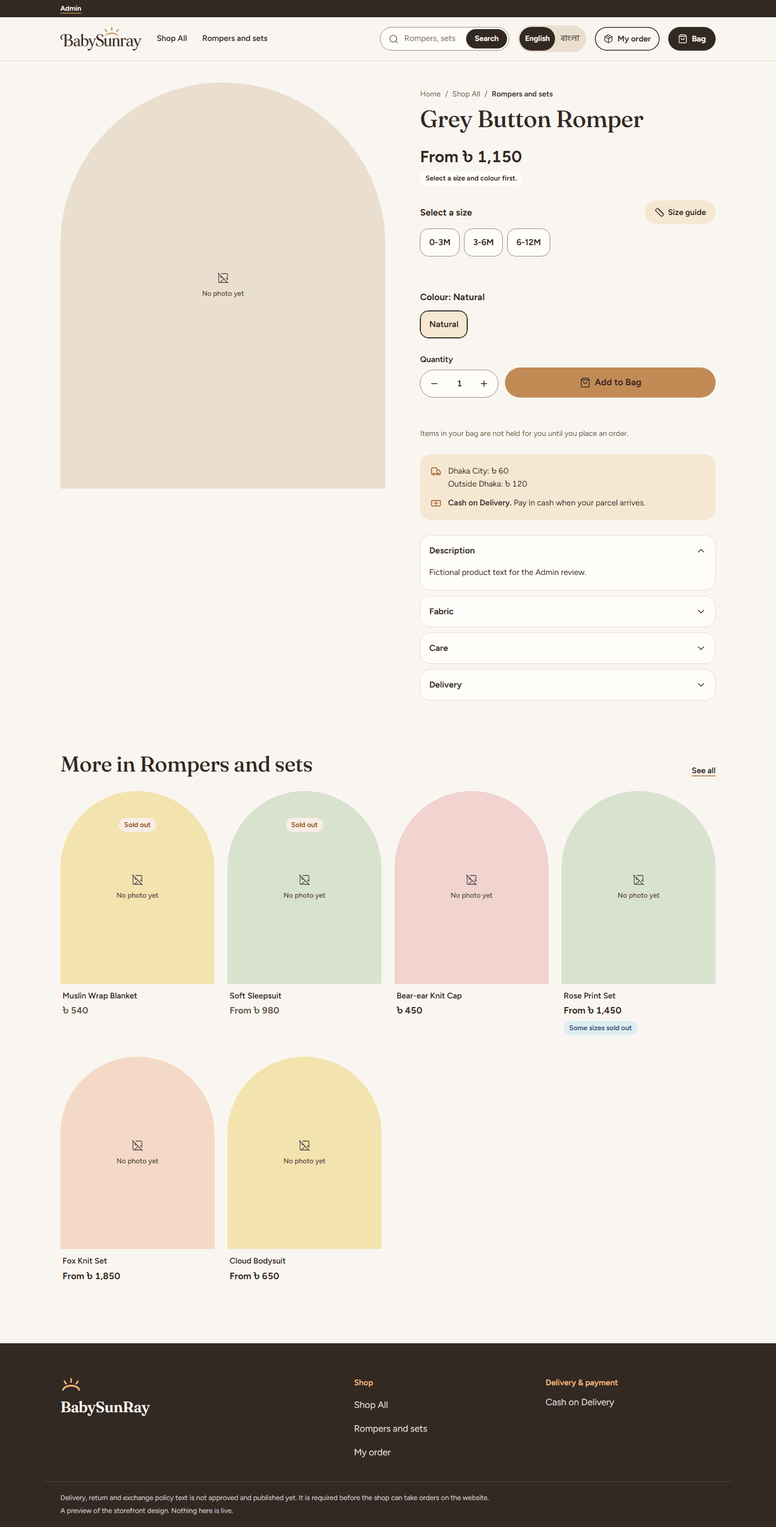
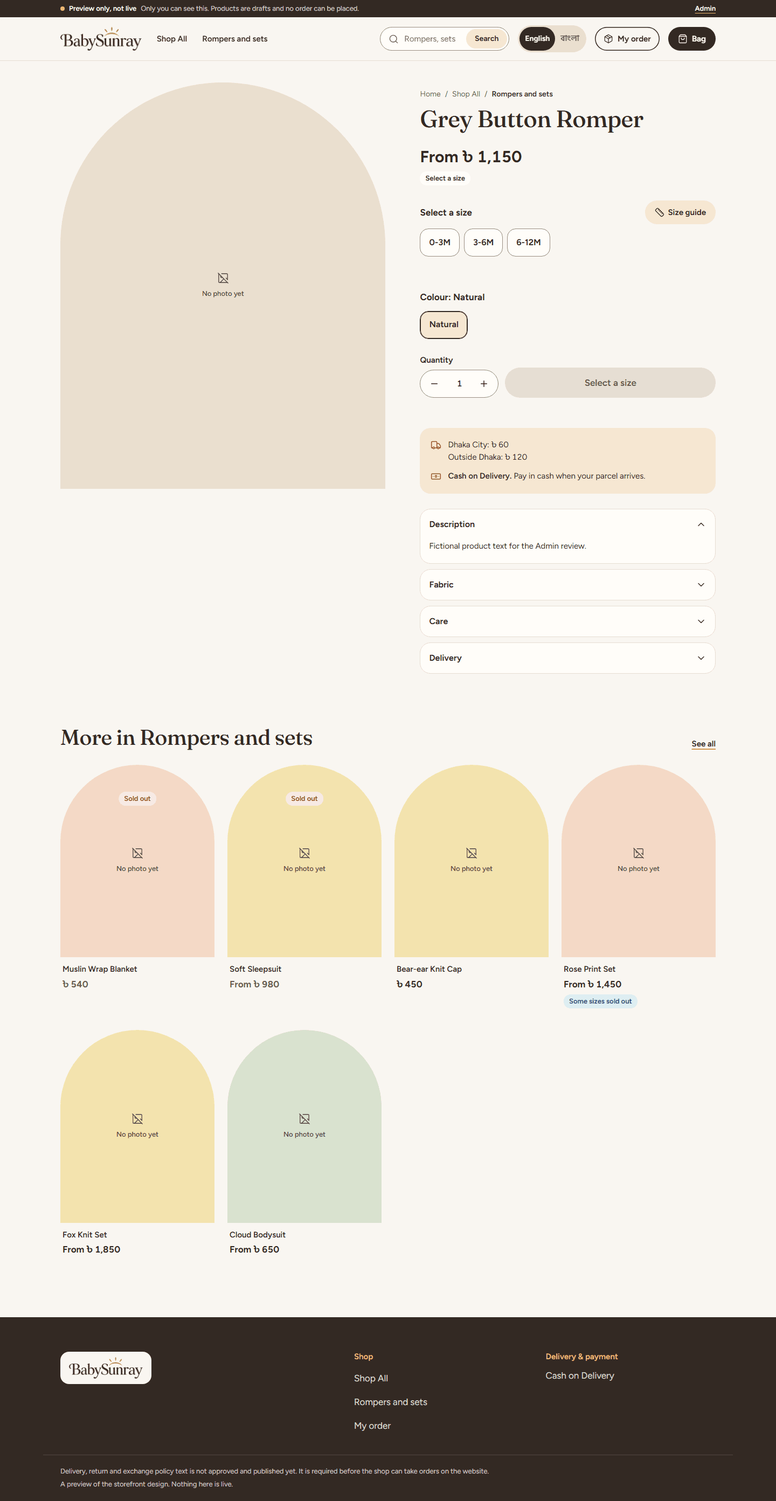
docs: README pictures and guides for the corrected screens; honest screenshot harness
- README, user guide, Admin reference and design system describe the corrected storefront and Admin
  (buying states, delivery area carry-over, sorting, size guide units, orders Status column, phone
  cards, dashboard, checklist) and spell the business BabySunray, as the wordmark does.
- The five README pictures are fresh screenshots of the corrected app on fictional data (no photos:
  none are licensed); the shop pictures keep the preview's "not live" line instead of hiding half of
  it, the Admin seed uses the wordmark's spelling, and drawers and the scrolled sidebar are captured
  as seen on screen rather than as stitched full pages.

diff --git a/tests/e2e/admin-ux-shots.spec.ts b/tests/e2e/admin-ux-shots.spec.ts
@@ -117,7 +117,8 @@ test("Admin operational UX review screenshots (opt-in: ADMIN_SHOTS_DIR)", async 
   let romperSlug = "";
   let romperId = "";
   try {
-    await named.query("insert into store_settings (id, store_name) values (1, 'BabySunRay') on conflict (id) do update set store_name = excluded.store_name");
+    // The approved wordmark's spelling, so the name and the logo agree in every screenshot.
+    await named.query("insert into store_settings (id, store_name) values (1, 'BabySunray') on conflict (id) do update set store_name = excluded.store_name");
     ({ slug: romperSlug, id: romperId } = (await named.query<{ slug: string; id: string }>("select slug, id from products where name_en = 'Grey Button Romper' order by created_at desc limit 1")).rows[0]);
   } finally {
     await named.end();
@@ -147,13 +148,15 @@ test("Admin operational UX review screenshots (opt-in: ADMIN_SHOTS_DIR)", async 
     await db.end();
   }
 
-  const capture = async (p: Page, file: string, caption: string, group: string) => {
+  // fullPage = false for anything fixed or sticky (a drawer, the sidebar after scrolling): a stitched full-page picture
+  // shows those cut off where a person on the screen never sees them so.
+  const capture = async (p: Page, file: string, caption: string, group: string, fullPage = true) => {
     await p.waitForLoadState("networkidle");
     await p.evaluate(async () => {
       await Promise.race([Promise.all([...document.images].map((img) => (img.complete ? null : new Promise((r) => { img.onload = img.onerror = () => r(null); })))), new Promise((r) => setTimeout(r, 4000))]);
       await document.fonts.ready;
     });
-    await p.screenshot({ path: path.join(OUT!, file), fullPage: true });
+    await p.screenshot({ path: path.join(OUT!, file), fullPage });
     shots.push({ file, caption, group });
   };
   const search = async (p: Page, term: string) => {
@@ -172,7 +175,7 @@ test("Admin operational UX review screenshots (opt-in: ADMIN_SHOTS_DIR)", async 
   await search(page, "Nobody Fictional");
   await capture(page, "desktop-04-orders-no-match.png", "Orders: empty state for a search with no match", "Orders · desktop");
   await search(page, "0171");
-  await capture(page, "desktop-05-orders-search-error.png", "Orders: an unusable search term explains what works", "Orders · desktop");
+  await capture(page, "desktop-05-orders-search-error.png", "Orders: part of a phone number while typing gets a calm hint, not an error", "Orders · desktop");
   await page.goto("/admin/orders?queue=to_pack");
   await capture(page, "desktop-06-orders-to-pack.png", "Orders: the To pack queue with its quick action", "Orders · desktop");
   await page.goto("/admin/orders?attention=true");
@@ -199,16 +202,17 @@ test("Admin operational UX review screenshots (opt-in: ADMIN_SHOTS_DIR)", async 
   await page.locator("[data-quickview]").nth(3).click();
   await page.getByRole("region", { name: "Items" }).waitFor();
   await page.waitForTimeout(400);
-  await capture(page, "desktop-09-quick-view.png", "Orders: quick view drawer", "Orders · desktop");
+  await capture(page, "desktop-09-quick-view.png", "Orders: quick view drawer (the screen as seen)", "Orders · desktop", false);
   await page.keyboard.press("Escape");
   await page.goto("/admin/catalogue-preparation");
-  await capture(page, "desktop-40-preparation.png", "Catalogue preparation: business language, no requirement codes", "Catalogue preparation · desktop");
+  await capture(page, "desktop-40-preparation.png", "Catalogue checklist: what drafts still need, done items marked", "Catalogue preparation · desktop");
   await page.goto("/admin/products/new");
   await page.getByLabel("Name (English)").fill("Cotton Sleep Bag");
   await page.waitForTimeout(1200);
   await capture(page, "desktop-41-new-product.png", "New product: name first, language tabs, web address made from the name", "Products · desktop");
   // The shop as customers see it (the Owner's preview, its "preview" bar hidden for the picture).
-  const hideBar = () => page.addStyleTag({ content: "*:has(> [data-testid=preview-banner]) { display: none !important } nextjs-portal { display: none !important }" });
+  // Only the development overlay is hidden; the preview's "not live" line stays (the picture must not look like a public shop).
+  const hideBar = () => page.addStyleTag({ content: "nextjs-portal { display: none !important }" });
   await page.goto("/admin/storefront-preview/en");
   await hideBar();
   await capture(page, "storefront.png", "Storefront home", "Storefront");
@@ -227,7 +231,7 @@ test("Admin operational UX review screenshots (opt-in: ADMIN_SHOTS_DIR)", async 
   const edit = page.getByRole("button", { name: "Edit details" });
   if (await edit.count()) {
     await edit.click();
-    await page.getByLabel("Store name").fill("BabySunRay Kids");
+    await page.getByLabel("Store name").fill("BabySunray Kids");
     await capture(page, "desktop-51-store-settings-edit.png", "Store settings: editing, with Save changes and Cancel", "Settings · desktop");
   }
   const replace = page.getByRole("button", { name: "Replace logo" });
@@ -239,12 +243,15 @@ test("Admin operational UX review screenshots (opt-in: ADMIN_SHOTS_DIR)", async 
   }
   await desktop.close();
 
-  // A smaller laptop: the order table scrolls sideways and keeps the row's action in view.
+  // A smaller laptop: every order column in view without sideways scrolling; the sidebar stays put while a long page scrolls.
   const laptop = await browser.newContext({ viewport: { width: 1280, height: 800 }, locale: "en-GB" });
   const small = await laptop.newPage();
   await signIn(small);
   await small.goto("/admin/orders");
-  await capture(small, "desktop-08-orders-1280.png", "Orders at 1280 px: the action column stays in view", "Orders · desktop");
+  await capture(small, "desktop-08-orders-1280.png", "Orders at 1280 px: every column in view, no sideways scrolling", "Orders · desktop");
+  await small.goto("/admin/settings/store");
+  await small.evaluate(() => window.scrollTo(0, document.body.scrollHeight));
+  await capture(small, "desktop-53-sidebar-scrolled-1280.png", "1280 × 800, scrolled to the end of a long page with Settings open: the sidebar stays in view", "Settings · desktop", false);
   await small.goto("/admin/dashboard");
   await small.getByTestId("generated-at").waitFor();
   await small.screenshot({ path: path.join(OUT!, "desktop-21-dashboard-1280-fold.png") });
@@ -267,7 +274,7 @@ test("Admin operational UX review screenshots (opt-in: ADMIN_SHOTS_DIR)", async 
   await mobile.locator("ul[aria-label=Orders] [data-quickview]").nth(3).tap();
   await mobile.getByRole("region", { name: "Items" }).waitFor();
   await mobile.waitForTimeout(400);
-  await capture(mobile, "phone-03-quick-view.png", "Quick view on a phone", "Phone");
+  await capture(mobile, "phone-03-quick-view.png", "Quick view on a phone (the screen as seen)", "Phone", false);
   await mobile.keyboard.press("Escape");
   await mobile.goto("/admin/reports?tab=cod");
   await capture(mobile, "phone-31-reports-cod.png", "Reports COD tab on a phone", "Phone");
@@ -293,7 +300,7 @@ test("Admin operational UX review screenshots (opt-in: ADMIN_SHOTS_DIR)", async 
 <style>body{margin:0;font-family:system-ui,sans-serif;background:#f6f1ea;color:#2b211c}header{padding:24px 16px 8px;max-width:1500px;margin:auto}h1{margin:0 0 4px;font-size:24px}p{margin:0;color:#6b5d52}
 section{max-width:1500px;margin:auto;padding:8px 16px 24px}h2{font-size:18px;margin:16px 0 12px}.grid{display:grid;gap:20px;grid-template-columns:repeat(auto-fill,minmax(420px,1fr))}
 figure{margin:0;background:#fff;border:1px solid #e3d9cc;border-radius:14px;overflow:hidden}figure a{display:block;max-height:520px;overflow:hidden;border-bottom:1px solid #eee}img{width:100%;display:block}figcaption{padding:10px 12px;font-size:14px}code{font-size:12px;color:#8a7b6e}</style></head>
-<body><header><h1>BabySunRay Admin · Phase 1 operational UX</h1><p>Real application, production-like data shapes, fictional customers and products only (babysunray_test). Select a screenshot to open it full size.</p></header>
+<body><header><h1>BabySunray Admin · operational UX</h1><p>Real application, production-like data shapes, fictional customers and products only (babysunray_test). Select a screenshot to open it full size.</p></header>
 ${groups
   .map(
     (g) =>

diff --git a/docs/user-guide.md b/docs/user-guide.md
@@ -1,4 +1,4 @@
-# BabySunRay Admin — User Guide
+# BabySunray Admin — User Guide
 
 This guide shows you how to run the shop day to day: adding products, taking orders, sending parcels, keeping track of cash on delivery, and reading your reports.
 
@@ -83,9 +83,11 @@ The dashboard shows what needs you, most urgent first:
 └──────────────────────────────────────────────┘
 ```
 
-Under **Needs attention**, each line tells you what happened, why it matters, the oldest orders, and has a button to the right list (for example **Verify orders**). If nothing is listed, nothing needs you right now. A delivery zone without a charge, and returned items waiting for inspection, also appear here.
+Under **Needs attention**, each line tells you what happened, why it matters, the oldest orders, and has a button to the right list (for example **Verify orders**). Urgent lines (late orders, cancellation requests, a zone without a charge) have a dark button; the others an outlined one. If nothing is listed, nothing needs you right now. A delivery zone without a charge, and returned items waiting for inspection, also appear here. The time the figures were read and **Refresh** sit beside the *Needs attention* heading.
 
-**Orders in progress** shows how many orders are in each step of the day's work. Press **Show all** to open that list. These are order counts, not sales: money counts only once you record that it was collected and settled.
+**Orders in progress** shows how many orders are in each step of the day's work. Press anywhere on a card to open that list. These are order counts, not sales: money counts only once you record that it was collected and settled.
+
+Under **Stock availability**, **At most 3 / 5 / 10 available** show the items running low in one press; any other number can be typed in the box. This is only a view: the system sets no low-stock level.
 
 A simple daily rhythm:
 
@@ -119,13 +121,15 @@ Use the **Search orders** box. You can type:
 - the customer's full mobile number — `01712 345678`, `+8801712345678` (Bangla digits work too)
 - part of the customer's name
 
-The list updates as you type. The chips under the search box (**To verify**, **To pack**, **To dispatch** …) show one group at a time, with a count on each.
+The list updates as you type. While a phone number is only partly typed, a grey note says to keep typing: a phone number is found once all 11 digits are in. The chips under the search box (**To verify**, **To pack**, **To dispatch** …) show one group at a time, with a count on each.
+
+On a computer each row shows the order number (with how it came in and when), the customer, the total, a **Status** column and the next step. The Status column lists the order's separate states one under the other — the order, its packing and delivery, the payment (for example **COD to collect**) and any return — so you see them all without scrolling sideways.
 
 > Customer names and phone numbers are never shown in the page address, so they don't end up in your browser history.
 
 ### Quick look without opening
 
-Press the **eye icon** next to an order number. A panel opens on the right with the customer, the items, the amounts and the recent history. Press **Close** or **Esc** to go back to the list. To see everything, press **Open full order**.
+Press the **eye icon** next to an order number. A panel opens on the right with the customer, the items, the amounts and the recent history. **Call** opens your phone's dialler with the customer's number and **Copy** copies it (for WhatsApp). The courier's amounts appear once money has moved; before that the panel says *Nothing yet*. Press **Close** or **Esc** to go back to the list. To see everything, press **Open full order**.
 
 ![Order quick view](images/order-quick-view.png)
 
@@ -151,8 +155,8 @@ Open an order by its number. On a computer the page has two columns: the work on
 |---|---|
 | **Status** | A progress strip (Verified, Packed, Dispatched, Delivered or Returned to sender, Closed) with the next step marked, then the four separate statuses: order, fulfilment (packing and delivery), payment and return. They are never merged into one. Cancelled and expired orders show no strip. |
 | **Next step** | The steps possible now, as buttons. **Cancel order** and **Mark returned to sender** sit apart, under *If the order cannot go ahead*. |
-| **Customer and delivery** | Name, phone, address and delivery zone. **Copy** puts the phone or address on your clipboard (for the courier's form). The print button makes the packing and shipping document. |
-| **Items** | What was ordered, at the price it was ordered at, and the expected COD. |
+| **Customer and delivery** | Name, phone, address and delivery zone. **Call** opens your phone's dialler; **Copy** puts the phone or address on your clipboard (for the courier's form or WhatsApp). The print button makes the packing and shipping document. |
+| **Items** | What was ordered, at the price it was ordered at, and the expected COD. On a phone each item is a small card with the same figures. |
 | **Cash on delivery** | The money for this order (see section 7). **Record a payment** opens the form; it opens by itself when a delivered order has nothing collected yet. |
 | **Returns and exchanges** | Open requests and their next step. **Record a return or exchange** opens the form while the return window is open. |
 | **History** | Everything that happened, oldest first; the latest step is marked. |
@@ -173,7 +177,7 @@ On a computer, tick the boxes on the left of several orders. A bar appears at th
 - **Mark N packed** — for orders waiting to be packed
 - **Dispatch N orders** — for packed orders
 
-Each order is handled separately. If one can't be done (for example someone changed it in another window), you'll see exactly which one and why — the others still go through.
+Each order is handled separately. If one can't be done (for example someone changed it in another window), you'll see exactly which one and why — the others still go through. The result stays on screen even when the list is now empty (for example after packing everything in *To pack*).
 
 > Delivery is always recorded **one order at a time**, because it's your own record, not proof from the courier.
 
@@ -204,15 +208,15 @@ A new product is a **draft** — customers can't see it yet.
 
 ### Finishing the product
 
-The product's page starts with an **overview**: the first photo, whether customers can see the product, how many variants it has, the units on hand and available, and **the one thing to do next**, with a button that goes straight there (for example *Next: add a product photo* with **Add photos**, or *Next: add the size chart measurements* with **Add measurements**). **See all** lists everything still needed. The row of buttons under it jumps to each part of the page.
+The product's page starts with an **overview**: the first photo, whether customers can see the product, how many variants it has, the units on hand and available, and **the one thing to do next**, with a button that goes straight there (for example *Next: add a product photo* with **Add photos**, or *Next: add the size chart measurements* with **Add measurements**). **See all** lists everything still needed. The row of buttons under it jumps to each part of the page, in the order they appear:
 
 | Part | What to do |
 |---|---|
-| **Variants and stock** | Each size/colour is a *variant* with its own code (SKU) and price. On a phone each variant is a card with its available, reserved and on-hand units and a **Stock** button. **Add a variant** opens the form (it is already open for a product with no variants). Click a SKU to receive or adjust its stock. |
-| **Publishing** | Three steps: complete the information, mark it reviewed, publish. A finished step shows a tick. |
-| **Details** | Description, fabric, care instructions, size guidance, category — change them with **Edit details** at the top. If you type something and try to leave without saving, you are asked first. |
+| **Photos** | Upload photos and describe each one in English and Bangla. They come first: they are what customers look at first. |
 | **Size chart** | Measurements in centimetres for each size |
-| **Photos** | Upload photos and describe each one in English and Bangla |
+| **Variants and stock** | Each size/colour is a *variant* with its own code (SKU) and price. On a phone each variant is a card with its available, reserved and on-hand units and a **Stock** button. **Add a variant** opens the form (it is already open for a product with no variants). Click a SKU to receive or adjust its stock. |
+| **Publishing** | Three steps: complete the information, mark it reviewed, publish. A finished step shows a tick. In the checklist, what is still missing is listed; what is done folds into one **N done** line you can open. |
+| **Details** | Description, fabric, care instructions, size guidance, category — change them with **Edit details** at the top. If you type something and try to leave without saving, you are asked first. |
 
 **Archive this product** is at the bottom, behind its own button, because it cannot be undone here.
 
@@ -220,7 +224,7 @@ The product's page starts with an **overview**: the first photo, whether custome
 
 ### Is it ready?
 
-The **Catalogue checklist** page shows, for all drafts, what's still missing (names, photos, measurements…). Click a number to see those products.
+The **Catalogue checklist** page shows, for all drafts, what's still missing (names, photos, measurements…). Press **N drafts** on a line to see those products; a line every draft already has shows **All set**. Archived products are left out of these lists (choose the *Archived* status on the product list to see them).
 
 On the product list, each draft shows either **Information complete** or **N missing**.
 
@@ -344,6 +348,8 @@ If the reconciliation check ever turns red, the payment records don't match — 
 
 On the **Orders & performance** tab, the bar shows orders by status; **Show the detail tables** opens the counts by source and by each status.
 
+On a phone the tabs are called **Orders**, **COD** and **Inventory**, and each order with COD still open is a small card with all six amounts (total, to collect, collected, held by the courier, settled, kept by the courier).
+
 ---
 
 ## 10. Shop settings
@@ -393,7 +399,9 @@ Customers never need an email account to order.
 ## 11. What your customers see
 
 - They browse the shop in **English or Bangla**.
-- They choose size and colour, add to bag, and order with **Cash on Delivery**. No account is needed, but they can make one (with email or Google) if they like.
+- They can sort the list (newest, or price low to high / high to low) and filter it under **Filter & sort**.
+- They choose size and colour, add to bag, and order with **Cash on Delivery**. Until a size or colour is chosen the button says which one is missing; a sold-out choice says **Sold out**. The size guide marks the chosen size and can show inches (worked out from your centimetres). No account is needed, but they can make one (with email or Google) if they like.
+- The delivery area they pick in the bag is already chosen at checkout, so the total they saw is the total they get (it is priced again by the server).
 - They get a **tracking link** to follow their order and, while it's still waiting for your call, to cancel it.
 
 > Until you officially launch, the shop is closed to the public. You can see it safely through **Storefront preview** or **Shop acceptance**.

diff --git a/docs/guides/admin-panel.md b/docs/guides/admin-panel.md
@@ -3,7 +3,7 @@
 **Status:** Draft — Founder Review
 **Purpose:** The screens of the private admin panel, their permissions, and how every page and form is protected.
 
-A functional internal area at `/admin` (`src/app/admin`), built with the Next.js App Router and Tailwind CSS. In the code it is called BabySunRay Admin and its single role is `owner`. It wears the First Light design ([design system](../design/storefront-design-system.md)): a cocoa sidebar grouped by the work it serves, daily pages first, with the occasional Shop and Settings groups folded unless the current page is in them (on a phone, a bottom bar with Dashboard, Orders, Products and a Menu of every page), status words in toned pills, the main action of a page or form in amber. When the connected database carries the founder's staging marker (`src/app/admin/_lib/staging.ts`: the same `isStagingDatabase` check acceptance uses, read from the database itself; no environment variable or setting can turn it on, and an unreadable database shows no notice), every page shows a "Test database (staging)" notice so test orders and figures cannot be taken for real sales.
+A functional internal area at `/admin` (`src/app/admin`), built with the Next.js App Router and Tailwind CSS. In the code it is called BabySunray Admin and its single role is `owner`. It wears the First Light design ([design system](../design/storefront-design-system.md)): a cocoa sidebar grouped by the work it serves, daily pages first, with the occasional Shop and Settings groups folded unless the current page is in them (on a phone, a bottom bar with Dashboard, Orders, Products and a Menu of every page), status words in toned pills, the main action of a page or form in amber. When the connected database carries the founder's staging marker (`src/app/admin/_lib/staging.ts`: the same `isStagingDatabase` check acceptance uses, read from the database itself; no environment variable or setting can turn it on, and an unreadable database shows no notice), every page shows a "Test database (staging)" notice so test orders and figures cannot be taken for real sales.
 
 | Screen | Does | Permission |
 |---|---|---|
@@ -21,13 +21,13 @@ A functional internal area at `/admin` (`src/app/admin`), built with the Next.js
 | `/admin/variants/{id}/edit` | Edit an active variant's size, colour and price in Taka; shows its stock, which the edit never changes | `catalog:read`, `catalog:write`, `stock:read` |
 | `/admin/categories` | Create categories (slug, English and Bangla names) and rename them | `catalog:read`, `catalog:write` |
 | `/admin/import` | Bulk import of new draft products: templates, check (preview, nothing saved), problem list, import, recent imports | `catalog:read`, `catalog:write` |
-| `/admin/catalogue-preparation` | How many drafts still need each checklist item, grouped as on the product page (needed to publish under the rule that applies, else product information and proposed requirements; then optional improvements); each count links to the matching list | `catalog:read` |
+| `/admin/catalogue-preparation` | How many drafts still need each checklist item, grouped as on the product page (needed to publish under the rule that applies, else product information and proposed requirements; then optional improvements); each count links to the matching list, and a line every draft meets shows All set; the product list's still-missing filter leaves archived products out unless the Archived status is chosen | `catalog:read` |
 | `/admin/product-reviews` | Review queue: every draft with what it still lacks, its review state (not reviewed, current, outdated) and its customer preview; search | `catalog:read` |
 | `/admin/skus/{sku}` | Current stock, receive stock, adjust with a reason; movement history with who made each change (times in Asia/Dhaka) | `stock:read`; changes `stock:receive` / `stock:adjust` |
 | `/admin/stock-counts`, `/admin/stock-counts/{id}` | Physical stock counts: start, resume, review, apply or discard; history | `stock:read`, `stock:adjust` |
-| `/admin/orders`, `/admin/orders/new`, `/admin/orders/{id}` | Orders newest first as a table (cards on a phone) with queue chips, a status filter and one search box for an order number, a full mobile number (any common form, matched on the normalized number) or part of the customer's name; filters apply as they change and text search applies when typing pauses; a name or phone search is forgotten on sign-out and is kept in a sealed (AES-GCM, bound to the signed-in user), HttpOnly, SameSite=Strict cookie for `/admin/orders` only, valid 15 minutes and removed by Clear search, never in the URL; chips show how many orders each queue holds (one aggregate query); the next step (confirm, pack, dispatch, mark delivered) can be taken from the row; an order past its 24-hour deadline can still be confirmed (with an overdue warning; stock is checked again and the confirmation is refused if there is not enough); an eye button opens a quick-view drawer (customer, items, amounts, recent history) without leaving the list; on a desktop screen several rows can be selected to pack or dispatch together (recording a delivery is one order at a time: it is your own record, not courier evidence) (each order changes on its own with the version shown, one result per order, confirmation first, no bulk undo); neutral statuses are plain text, COD still to collect or settle stands out; an assisted order (up to 5 SKU lines, stock reserved at once); one order's progress strip (verified, packed, dispatched, delivered or returned to sender, closed; read from the recorded statuses, none for cancelled or expired orders), four statuses, the next step (forward steps first; cancel and return to sender apart), cancellation requests, customer and delivery with copy buttons (beside the work on a desktop), items, COD as expected, collected, settled and still to collect with the other amounts below (recording a payment, the RTO charge and a new return sit behind action panels), returns, inspection, tracking link (shown once) and history as a timeline | `orders:read`; changes `orders:write`, `payments:record`, `stock:receive` |
+| `/admin/orders`, `/admin/orders/new`, `/admin/orders/{id}` | Orders newest first as a table (cards on a phone) with queue chips, a status filter and one search box for an order number, a full mobile number (any common form, matched on the normalized number) or part of the customer's name; filters apply as they change and text search applies when typing pauses; a name or phone search is forgotten on sign-out and is kept in a sealed (AES-GCM, bound to the signed-in user), HttpOnly, SameSite=Strict cookie for `/admin/orders` only, valid 15 minutes and removed by Clear search, never in the URL; chips show how many orders each queue holds (one aggregate query); the next step (confirm, pack, dispatch, mark delivered) can be taken from the row; an order past its 24-hour deadline can still be confirmed (with an overdue warning; stock is checked again and the confirmation is refused if there is not enough); an eye button opens a quick-view drawer (customer with Call and Copy, items, amounts, recent history; the page behind stays put) without leaving the list; on a desktop the table fits a 1280-pixel laptop without sideways scrolling: the date sits under the order number and one Status column lists the order, fulfilment, payment and return states one under the other, each named, never merged; part of a phone number gets a calm hint (only a whole number is searched); on a desktop screen several rows can be selected to pack or dispatch together (recording a delivery is one order at a time: it is your own record, not courier evidence) (each order changes on its own with the version shown, one result per order, confirmation first, no bulk undo); neutral statuses are plain text, COD still to collect or settle stands out; an assisted order (up to 5 SKU lines, stock reserved at once); one order's progress strip (verified, packed, dispatched, delivered or returned to sender, closed; read from the recorded statuses, none for cancelled or expired orders), four statuses, the next step (forward steps first; cancel and return to sender apart), cancellation requests, customer and delivery with copy buttons (beside the work on a desktop), items, COD as expected, collected, settled and still to collect with the other amounts below (recording a payment, the RTO charge and a new return sit behind action panels), returns, inspection, tracking link (shown once) and history as a timeline | `orders:read`; changes `orders:write`, `payments:record`, `stock:receive` |
 | `/admin/settings/delivery` | Charge and active flag for each delivery zone, shown as text until **Change charge** (or **Set charge**), with the same Cancel and unsaved-change questions | `orders:read`, `settings:write` |
-| `/admin/dashboard` | From the database now: store setup progress; **Needs attention** (orders past the verification deadline, cancellation requests, orders to verify, delivery zones without a charge, SKUs out of stock, returned units awaiting inspection; each with why it matters, the oldest orders and a button to the right list; empty urgent queues on one line); **Orders in progress** (to pack, to dispatch, in transit, returning, COD to collect, not settled by the courier; order counts, never sales); shortcuts (picking list, reports, stock counts); returns and inspection; stock availability with an Owner-chosen low-stock view; a Refresh button | `reports:read`, `orders:read`, `stock:read` |
+| `/admin/dashboard` | From the database now: store setup progress; **Needs attention** (orders past the verification deadline, cancellation requests, orders to verify, delivery zones without a charge, SKUs out of stock, returned units awaiting inspection; each with why it matters, the oldest orders and a button to the right list; empty urgent queues on one line); **Orders in progress** (to pack, to dispatch, in transit, returning, COD to collect, not settled by the courier; order counts, never sales); shortcuts (picking list, reports, stock counts); returns and inspection; stock availability with an Owner-chosen low-stock view (at most 3, 5 or 10 in one press, or any number); the time read and Refresh beside Needs attention | `reports:read`, `orders:read`, `stock:read` |
 | `/admin/reports` | Quick date ranges and a custom range; period summary figures in two groups (orders placed, which are not money; money recorded), each figure with its meaning, and a short glossary of the money words, then three sections (Orders & performance with a status bar, COD & reconciliation with a where-the-money-is bar, Inventory & costs) and the COD reconciliation; printable reconciliation. A failed reconciliation check is shown on every section | `reports:read` |
 | `/admin/exports` | XLSX, CSV and JSON exports, complete or filtered (datasets with customer contact details are marked in the picker; the dataset reference is folded), and the export audit list ([exports.md](../operations/exports.md)) | `exports:create` |
 | `/admin/print/...` | A4 print views: picking list, COD summary, stock count sheet (no contact details), one order's packing and shipping document | `orders:read`, `reports:read` or `stock:read` |

diff --git a/docs/design/storefront-design-system.md b/docs/design/storefront-design-system.md
@@ -1,6 +1,6 @@
 # First Light design system
 
-**Status:** Draft — Founder Review. The visual direction, foundations, tokens, components, motion and accessibility rules of the storefront and BabySunRay Admin.
+**Status:** Draft — Founder Review. The visual direction, foundations, tokens, components, motion and accessibility rules of the storefront and BabySunray Admin.
 
 **First Light** is the design the founder chose for implementation on 2026-11-18, from a 14-board design proposal (brand, components, an interactive phone prototype, storefront and BabySunRay Admin screens). It replaces the earlier storefront design and Concept C, both rejected. It is implemented in the Owner-only storefront preview (`/admin/storefront-preview`), the guest tracking page (`/track`) and every BabySunRay Admin page. Nothing here is public: the launch gate stays closed, checkout is a simulation, and the requirement texts (BR-6, ADR-0001 open item 5) still read "not decided" until the founder updates them.
 
@@ -56,14 +56,19 @@ Shape and space: pills for buttons, chips and steppers; 16 px corners for size a
 
 Storefront (`src/app/admin/storefront-preview/_components/`): `header.tsx` and `header-client.tsx` (logo, language switch, desktop navigation and search, bag with a count that bumps when it grows, search sheet, and the phone tab bar: Home, Shop, Search, Bag, My order), `parts.tsx` (arch photo, product card with tint, grid and rail, section heading, trust lines, how to order, preview strip, footer: brand and store line, shop links, delivery and payment, and a Contact column listing only the channels set in Store settings (phone and email as tel: and mailto: links, WhatsApp, Messenger, Facebook, Instagram), each with a text label beside its icon and no third-party script), `gallery.tsx`, `variant-picker.tsx`, `cart-view.tsx`, `checkout-form.tsx`, `sheet.tsx`, `filter-sheet.tsx`, `no-photo.tsx`, `frame.tsx`. Shared: `src/app/_design/` (fonts, logo, ray mark).
 
-Admin (`src/app/admin/_components/`): `shell.tsx` (cocoa sidebar grouped as Daily work, Catalogue, Money and records, then Opening the shop and Settings, which fold (native `details`) unless the current page is in them; on a phone a bottom bar and a Menu of every page in two columns; a "Test database (staging)" notice on a staging-marked database; page title with actions; notices; `Section` cards), `action-form.tsx` (fields capped at a readable width, choices as pills, the amber submit, Cancel beside it inside an editable section), `editable-section.tsx` (a settings card that shows saved values as text until Edit; Cancel and leaving ask before typed changes are lost; used where settings are stable and rarely changed, not on operational forms such as orders, stock or variants), `file-picker.tsx` (the file input drawn as a drop area with the real input transparent over it, file name and size, an image preview and type and size checks before upload; a submit button that sends a plain upload form once), `content.tsx` (readiness checklist with progress), `panel.tsx` (an action panel: a less frequent form behind a button-like native `details` summary, so a page that is mostly read is not a wall of forms), `stat.tsx` (a figure with its meaning in one line, so expected money is not read as received or on-hand units as sellable), `copy-button.tsx` (copies a value on the page, such as an address for the courier), and the `.of-split` (work left, reference details right; one column in reading order on a phone) and `.of-timeline` classes; `orders/_components/labels.tsx` (status pills: amber waiting, green done, blue moving, red off the normal path, quiet otherwise; the four order dimensions side by side, never merged; order history in plain words).
+Admin (`src/app/admin/_components/`): `shell.tsx` (cocoa sidebar, a column the page's full height whose name and menu stay in view while the page scrolls and whose menu scrolls on its own when open groups are taller than the screen, grouped as Daily work, Catalogue, Money and records, then Opening the shop and Settings, which fold (native `details`) unless the current page is in them; on a phone a bottom bar and a Menu of every page in two columns; a "Test database (staging)" notice on a staging-marked database; page title with actions; notices; `Section` cards), `action-form.tsx` (fields capped at a readable width, choices as pills, the amber submit, Cancel beside it inside an editable section), `editable-section.tsx` (a settings card that shows saved values as text until Edit; Cancel and leaving ask before typed changes are lost; used where settings are stable and rarely changed, not on operational forms such as orders, stock or variants), `file-picker.tsx` (the file input drawn as a drop area with the real input transparent over it, file name and size, an image preview and type and size checks before upload; a submit button that sends a plain upload form once), `content.tsx` (readiness checklist with progress), `panel.tsx` (an action panel: a less frequent form behind a button-like native `details` summary, so a page that is mostly read is not a wall of forms), `stat.tsx` (a figure with its meaning in one line, so expected money is not read as received or on-hand units as sellable), `copy-button.tsx` (copies a value on the page, such as an address for the courier), and the `.of-split` (work left, reference details right; one column in reading order on a phone) and `.of-timeline` classes; `orders/_components/labels.tsx` (status pills: amber waiting, green done, blue moving, red off the normal path, quiet otherwise; the four order dimensions side by side, never merged; order history in plain words).
 
 Rules:
 
-- **Choices** are radio buttons or checkboxes inside labels (size, colour, delivery area, filters) or links with `aria-current` (categories). Size and colour options are larger, and a chosen one is an ink outline on the sun wash. Sold out: dashed and struck through, still readable; a colour missing in the chosen size is disabled.
-- **Delivery area** is a large choice card with a drawn radio, the area's name and its configured charge.
+- **Choices** are radio buttons or checkboxes inside labels (size, colour, delivery area, filters, sort order) or links with `aria-current` (categories). Size and colour options are larger, and a chosen one is an ink outline on the sun wash. Sold out: dashed and struck through, still readable. A size is struck when no colour of it is left, a colour when no size of it is left; one sold-out combination marks only that combination (the availability badge and the button say "Sold out"). A colour missing in the chosen size is disabled.
+- **The buying button** names the next step until there is something to add: "Select a size", "Select a colour", then "Add to Bag" (with the price in the phone bar); a sold-out choice reads "Sold out" and the quantity steps aside. It stays focusable (`aria-disabled`), so pressing it says what is missing; the bag and checkout check stock on the server either way.
+- **Bars fixed to the bottom of a phone screen** (tab bar, buying bar, checkout bar, the Admin's bottom bar) and the sticky list toolbar are solid, never translucent, with a soft top shadow: content scrolling under them never shows through.
+- **Delivery area** is a large choice card with a drawn radio, the area's name and its configured charge. The area chosen in the bag is kept for the tab (sessionStorage, the area's code only) and preselected at checkout; the server prices it again, and an area no longer offered is dropped.
+- **Product list:** "Filter & sort" opens one sheet with the order (featured first by default, newest, price low to high, high to low: by each product's lowest active price, the card's "From" price, sorted in the database across every page), size, colour and stock; each active choice is a removable chip.
+- **Size guide:** a cm / in switch (centimetres are stored; inches are the same millimetres ÷ 25.4, to one decimal) and the chosen size's row marked in the sun wash.
 - **Product card:** arch photo on a tint, name, price; "Sold out" on the photo, "Some sizes sold out" under the price; without a photo, the tint with "No photo yet".
-- **Checkout:** numbered steps (done in green with a tick, current in ink), errors per field with an icon and summarised at the top, a review card, then the confirmation with the ray mark, what happens next, and where the private tracking link would appear (a simulation records nothing).
+- **Checkout:** numbered steps (done in green with a tick, current in ink), a way back on every step (Back to bag on the first), errors per field with an icon and summarised at the top, a review card, then the confirmation: its heading replaces "Checkout", numbered next steps, one total, and where the private tracking link would appear. Only the simulation offers "Change details (simulation)"; a real order is never edited from its confirmation.
+- **Footer brand:** the header's logo (or the shop's name) on an ivory plate; the artwork is never recoloured for the dark footer.
 - **Tracking:** a timeline of five milestones (received, confirmed, packed, on its way, delivered) with the current one in amber, then the items and the cash to pay; English and Bangla switch in the page (no URL change, the link token stays in memory only).
 - **States:** skeletons with reserved space, empty catalogue, no results, empty bag, a problem per bag line that blocks checkout, a failed check with "Check again", and "the order was not placed" (S-12).
 

diff --git a/README.md b/README.md
@@ -1,6 +1,6 @@
 <div align="center">
 
-# BabySunRay
+# BabySunray
 
 **A bilingual online shop and back office for a baby and kidswear business in Bangladesh.**
 
@@ -8,13 +8,13 @@ English · বাংলা · Cash on delivery · Built for phones first
 
 </div>
 
-![The BabySunRay shop](docs/images/storefront.png)
+![The BabySunray shop](docs/images/storefront.png)
 
 ---
 
 ## About
 
-BabySunRay is an online shop and back office for a small clothing business. Shoppers browse in English or বাংলা, check the size chart, and order with cash on delivery, with no account needed. The owner runs everything from one Admin: products, stock, orders, cash-on-delivery money, returns, printed slips and reports.
+BabySunray is an online shop and back office for a small clothing business. Shoppers browse in English or বাংলা, check the size chart, and order with cash on delivery, with no account needed. The owner runs everything from one Admin: products, stock, orders, cash-on-delivery money, returns, printed slips and reports.
 
 It was built for how small shops in Bangladesh actually work: orders arrive from the website, Messenger and WhatsApp; every order is confirmed by phone before it is packed; and cash moves from customer to courier to shop in separate steps that each need recording.
 
@@ -30,15 +30,16 @@ It was built for how small shops in Bangladesh actually work: orders arrive from
 |---|---|
 | ![Orders](docs/images/orders.png) | ![Reports](docs/images/reports.png) |
 
-<sub>Screenshots come from the automated browser tests and use made-up products and customers. The products have no photos, so the shop shows its "No photo yet" state.</sub>
+<sub>Screenshots come from the automated browser tests and use made-up products and customers. The products have no photos, so the shop shows its "No photo yet" state, and the shop pictures keep the owner preview's "Preview only, not live" line.</sub>
 
 ## Features
 
 ### For shoppers
 
 - **Two languages:** every page, button and message works in English and বাংলা.
-- **Clear sizing:** sizes, colours and a size chart in centimetres on every product.
-- **Cash on delivery:** the delivery charge is shown before ordering, and no card or account is needed.
+- **Clear sizing:** sizes, colours and a size chart in centimetres (or inches) on every product; the button always says what to choose next, and sold-out choices say so.
+- **Find things fast:** search, filters and sorting by newest or price.
+- **Cash on delivery:** the delivery charge is shown before ordering (the area chosen in the bag carries into checkout), and no card or account is needed.
 - **Optional account:** sign up with email or Google to see past orders.
 - **Order tracking:** a private link for each order, with self-cancel while it's still waiting for the shop's call.
 - **Easy to reach the shop:** the footer lists only the contact channels the owner has set: phone, email, WhatsApp, Messenger, Facebook and Instagram.
